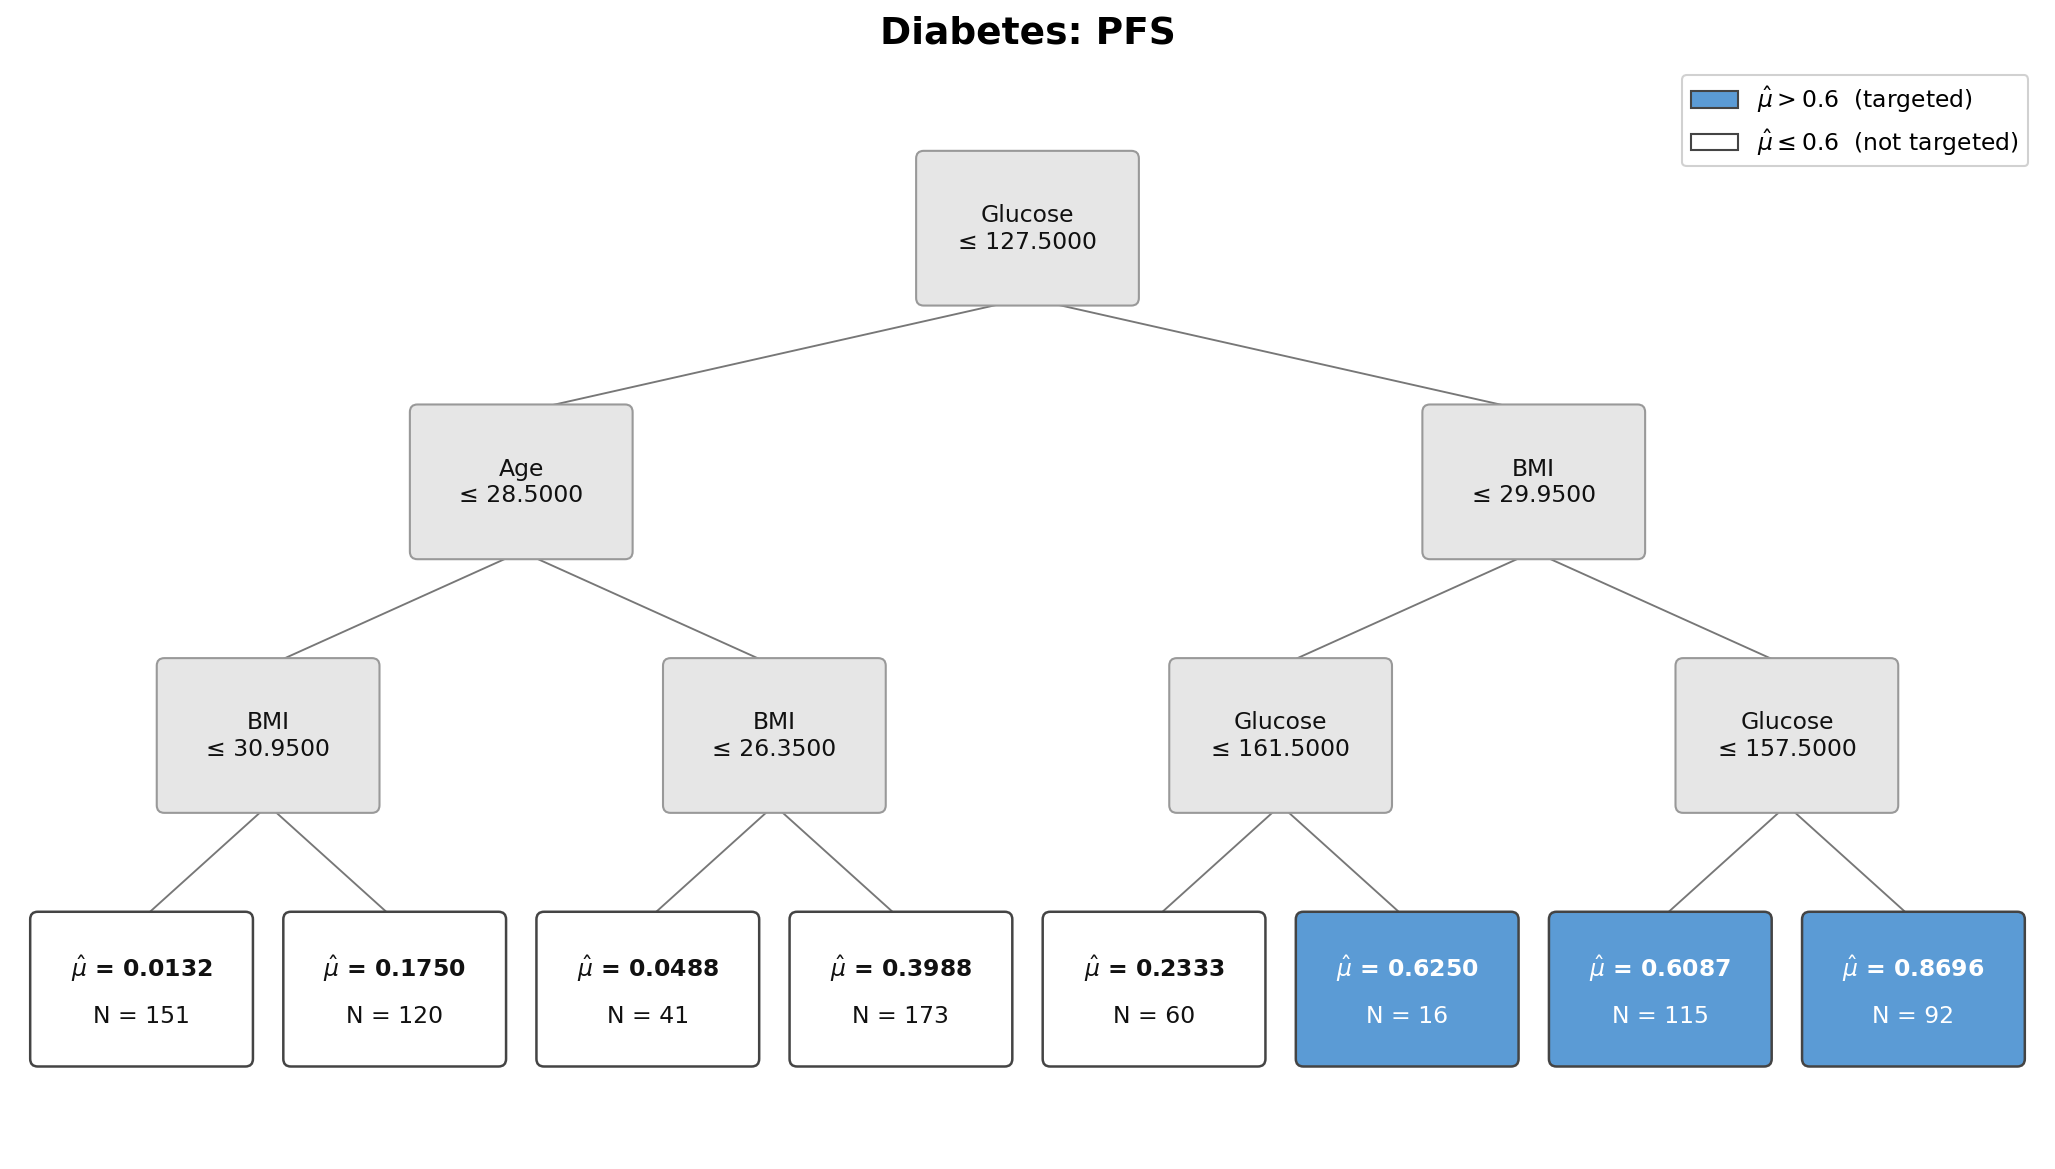
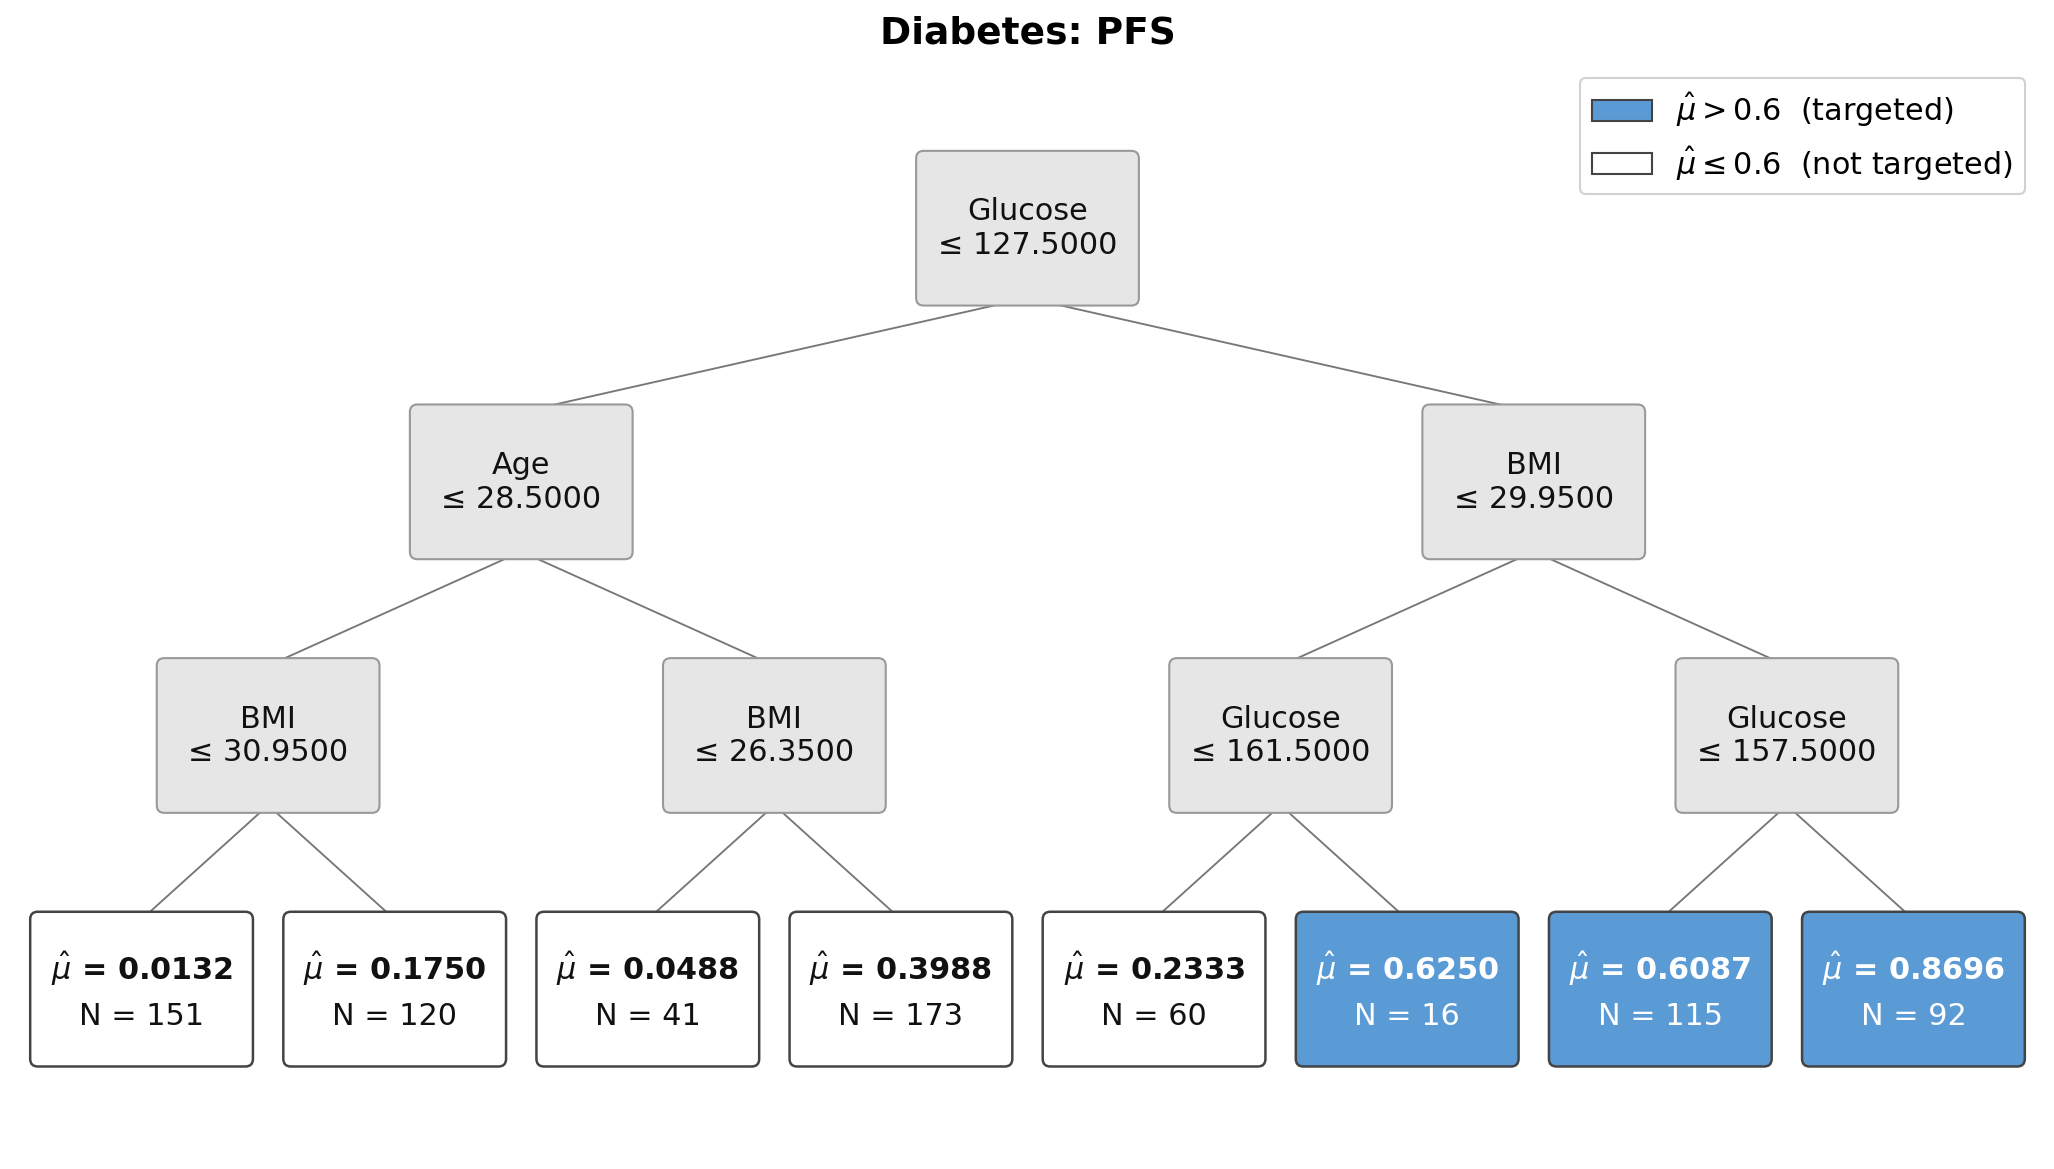
Maximize automatic tree font sizes

diff --git a/src/targetree/tree_vis.py b/src/targetree/tree_vis.py
@@ -140,8 +140,9 @@ def plot_cart_tree(tree, feature_name=None, cut=0.5,
         return f"{fn}{separator}{condition}"
 
     # Use one common font size throughout the tree. In automatic mode, measure
-    # the rendered labels (including math notation) instead of estimating their
-    # width from character counts.
+    # the rendered labels (including math notation) against the boxes after
+    # Matplotlib has laid out the axes. A final fitting pass below rechecks the
+    # result after the title, nodes, and legend have all been drawn.
     split_labels = [
         _split_label(node["feature"], node["threshold"])
         for node in node_info.values() if not isinstance(node, tuple)
@@ -151,14 +152,26 @@ def plot_cart_tree(tree, feature_name=None, cut=0.5,
         for node in node_info.values() if isinstance(node, tuple)
     ]
 
-    if font_size is not None:
-        if isinstance(font_size, bool) or not isinstance(font_size, (int, float)):
-            raise TypeError("font_size must be a positive number or None")
-        if font_size <= 0:
-            raise ValueError("font_size must be positive")
-        resolved_font_size = float(font_size)
-    else:
-        fig.canvas.draw()
+    title_artist = None
+    if title:
+        provisional_title_size = (
+            14.0 if title_font_size is None else float(title_font_size)
+        )
+        title_artist = ax.set_title(
+            title,
+            fontsize=provisional_title_size,
+            fontweight='bold',
+            pad=10,
+        )
+
+    # tight_layout materially changes the width of each node in display
+    # pixels. It must run before measuring labels, otherwise automatic sizing
+    # is unnecessarily conservative on wide figures.
+    fig.tight_layout()
+    fig.canvas.draw()
+
+    def _largest_fitting_font():
+        """Return the largest quarter-point font that fits every node."""
         renderer = fig.canvas.get_renderer()
         origin = ax.transData.transform((0, 0))
         corner = ax.transData.transform((node_w, node_h))
@@ -166,42 +179,81 @@ def plot_cart_tree(tree, feature_name=None, cut=0.5,
         box_height_px = abs(corner[1] - origin[1])
 
         def _fits(candidate):
-            measurements = [(label, "normal", 0.82)
-                            for label in split_labels]
-            for mean_label, count_label in leaf_labels:
-                measurements.append((mean_label, "bold", 0.38))
-                measurements.append((count_label, "normal", 0.38))
+            # Reserve a small amount of inner padding so glyphs and accents do
+            # not touch the rounded box frame in vector or raster output.
+            max_width = box_width_px * 0.90
+            max_height = box_height_px * 0.86
 
-            for label, weight, height_fraction in measurements:
-                probe = ax.text(0, 0, label, fontsize=candidate,
-                                fontweight=weight, alpha=0)
+            for label in split_labels:
+                probe = ax.text(
+                    0, 0, label,
+                    ha='center', va='center',
+                    fontsize=candidate, alpha=0,
+                )
                 bounds = probe.get_window_extent(renderer=renderer)
                 probe.remove()
-                if (bounds.width > box_width_px * 0.88 or
-                        bounds.height > box_height_px * height_fraction):
+                if bounds.width > max_width or bounds.height > max_height:
                     return False
+
+            for mean_label, count_label in leaf_labels:
+                mean_probe = ax.text(
+                    0, hh * 0.30, mean_label,
+                    ha='center', va='center',
+                    fontsize=candidate, fontweight='bold', alpha=0,
+                )
+                count_probe = ax.text(
+                    0, -hh * 0.38, count_label,
+                    ha='center', va='center',
+                    fontsize=candidate, alpha=0,
+                )
+                mean_bounds = mean_probe.get_window_extent(renderer=renderer)
+                count_bounds = count_probe.get_window_extent(renderer=renderer)
+                mean_probe.remove()
+                count_probe.remove()
+
+                combined_height = (
+                    max(mean_bounds.y1, count_bounds.y1)
+                    - min(mean_bounds.y0, count_bounds.y0)
+                )
+                if (max(mean_bounds.width, count_bounds.width) > max_width or
+                        combined_height > max_height):
+                    return False
+
             return True
 
-        # Search in quarter-point steps. The upper bound prevents a very small
-        # tree from receiving disproportionately large labels.
-        lower, upper = 4.0, 24.0
-        while upper - lower > 0.25:
-            candidate = (lower + upper) / 2
-            if _fits(candidate):
-                lower = candidate
+        # Binary-search quarter-point increments. Fit is monotonic in font
+        # size, so this reaches the same deterministic answer with far fewer
+        # temporary text measurements than a linear scan.
+        best_quarters = 16  # 4 points
+        lower_quarters = 17
+        upper_quarters = 128  # 32 points
+        while lower_quarters <= upper_quarters:
+            midpoint = (lower_quarters + upper_quarters) // 2
+            if _fits(midpoint / 4):
+                best_quarters = midpoint
+                lower_quarters = midpoint + 1
             else:
-                upper = candidate
-        resolved_font_size = round(lower * 4) / 4
+                upper_quarters = midpoint - 1
+        return best_quarters / 4
+
+    if font_size is not None:
+        if isinstance(font_size, bool) or not isinstance(font_size, (int, float)):
+            raise TypeError("font_size must be a positive number or None")
+        if font_size <= 0:
+            raise ValueError("font_size must be positive")
+        resolved_font_size = float(font_size)
+    else:
+        resolved_font_size = _largest_fitting_font()
 
     resolved_title_font_size = (
         max(14.0, resolved_font_size + 2.0)
         if title_font_size is None else float(title_font_size)
     )
-    if title:
-        ax.set_title(title, fontsize=resolved_title_font_size,
-                     fontweight='bold', pad=10)
+    if title_artist is not None:
+        title_artist.set_fontsize(resolved_title_font_size)
 
     # ── 3. Draw edges (plain lines, top of child ↔ bottom of parent) ────────
+    node_text_artists = []
     for nid, node in node_info.items():
         if isinstance(node, tuple):
             continue
@@ -230,15 +282,19 @@ def plot_cart_tree(tree, feature_name=None, cut=0.5,
                 facecolor=fcolor, zorder=2)
             ax.add_patch(box)
 
-            ax.text(x, y + hh * 0.30,
-                    rf"$\hat{{\mu}}$ = {prob:.4f}",
-                    ha='center', va='center',
-                    fontsize=resolved_font_size, fontweight='bold',
-                    color=tc, zorder=3)
-            ax.text(x, y - hh * 0.38,
-                    f"N = {n}",
-                    ha='center', va='center',
-                    fontsize=resolved_font_size, color=tc, zorder=3)
+            node_text_artists.append(ax.text(
+                x, y + hh * 0.30,
+                rf"$\hat{{\mu}}$ = {prob:.4f}",
+                ha='center', va='center',
+                fontsize=resolved_font_size, fontweight='bold',
+                color=tc, zorder=3,
+            ))
+            node_text_artists.append(ax.text(
+                x, y - hh * 0.38,
+                f"N = {n}",
+                ha='center', va='center',
+                fontsize=resolved_font_size, color=tc, zorder=3,
+            ))
 
         else:                                           # ── internal node ──
             label = _split_label(node["feature"], node["threshold"])
@@ -250,9 +306,11 @@ def plot_cart_tree(tree, feature_name=None, cut=0.5,
                 facecolor='#e6e6e6', zorder=2)
             ax.add_patch(box)
 
-            ax.text(x, y, label,
-                    ha='center', va='center',
-                    fontsize=resolved_font_size, color='#111111', zorder=3)
+            node_text_artists.append(ax.text(
+                x, y, label,
+                ha='center', va='center',
+                fontsize=resolved_font_size, color='#111111', zorder=3,
+            ))
 
     # ── 5. Legend ─────────────────────────────────────────────────────────────
     cut_label = f"{cut:g}"
@@ -260,10 +318,55 @@ def plot_cart_tree(tree, feature_name=None, cut=0.5,
                                label=rf'$\hat{{\mu}} > {cut_label}$  (targeted)')
     neg_patch = mpatches.Patch(facecolor=_WHITE, edgecolor='#444444',
                                label=rf'$\hat{{\mu}} \leq {cut_label}$  (not targeted)')
-    ax.legend(handles=[pos_patch, neg_patch],
-              loc='upper right', fontsize=resolved_font_size, framealpha=0.9)
+    legend = ax.legend(handles=[pos_patch, neg_patch],
+                       loc='upper right', fontsize=resolved_font_size,
+                       framealpha=0.9)
 
     fig.tight_layout()
+    fig.canvas.draw()
+
+    def _refit_auto_font(current_font_size):
+        # The title and legend can make a final adjustment to the axes. Refit
+        # and update all artists until the quarter-point result stabilizes.
+        if font_size is not None:
+            return current_font_size
+        for _ in range(3):
+            fitted_font_size = _largest_fitting_font()
+            if fitted_font_size == current_font_size:
+                break
+            current_font_size = fitted_font_size
+            for artist in node_text_artists:
+                artist.set_fontsize(current_font_size)
+            for artist in legend.get_texts():
+                artist.set_fontsize(current_font_size)
+            if title_artist is not None and title_font_size is None:
+                title_artist.set_fontsize(max(14.0, current_font_size + 2.0))
+            fig.tight_layout()
+            fig.canvas.draw()
+        return current_font_size
+
+    resolved_font_size = _refit_auto_font(resolved_font_size)
+
+    # An asymmetric tree can place its root under a wide, large-font legend.
+    # If that happens, move the legend into its own horizontal band below the
+    # axes and refit once more using the resulting final layout.
+    renderer = fig.canvas.get_renderer()
+    legend_bounds = legend.get_window_extent(renderer=renderer)
+    if any(legend_bounds.overlaps(box.get_window_extent(renderer=renderer))
+           for box in ax.patches):
+        legend.remove()
+        legend = ax.legend(
+            handles=[pos_patch, neg_patch],
+            loc='upper center',
+            bbox_to_anchor=(0.5, -0.02),
+            ncol=2,
+            fontsize=resolved_font_size,
+            framealpha=0.9,
+        )
+        fig.tight_layout()
+        fig.canvas.draw()
+        resolved_font_size = _refit_auto_font(resolved_font_size)
+
     if save_path:
         save_path = Path(save_path)
         if not save_path.suffix:

diff --git a/tests/test_tree_vis.py b/tests/test_tree_vis.py
@@ -51,3 +51,91 @@ def test_invalid_title_font_size_raises(simple_tree, title_font_size):
 def test_nonnumeric_title_font_size_raises(simple_tree):
     with pytest.raises(TypeError, match="title_font_size must be a positive number"):
         plot_cart_tree(simple_tree, title_font_size="large")
+
+
+def test_auto_font_uses_final_box_width(tmp_path):
+    tree = {
+        "feature": 0,
+        "threshold": 127.5,
+        "left": {
+            "feature": 1,
+            "threshold": 28.5,
+            "left": {
+                "feature": 2,
+                "threshold": 22.25,
+                "left": (0.0000, 35),
+                "right": (0.0975, 236),
+            },
+            "right": {
+                "feature": 2,
+                "threshold": 28.25,
+                "left": (0.2222, 63),
+                "right": (0.3775, 151),
+            },
+        },
+        "right": {
+            "feature": 2,
+            "threshold": 29.95,
+            "left": {
+                "feature": 0,
+                "threshold": 161.5,
+                "left": (0.2333, 60),
+                "right": (0.6250, 16),
+            },
+            "right": {
+                "feature": 0,
+                "threshold": 143.5,
+                "left": (0.6176, 68),
+                "right": (0.7770, 139),
+            },
+        },
+    }
+    figure, axes = plot_cart_tree(
+        tree,
+        feature_name=["Glucose", "Age", "BMI"],
+        cut=0.60,
+        title="Diabetes: MDFS",
+        split_rule_lines=2,
+        save_path=tmp_path / "auto-font.pdf",
+    )
+
+    node_font_sizes = {text.get_fontsize() for text in axes.texts}
+    assert len(node_font_sizes) == 1
+    assert node_font_sizes.pop() >= 14.5
+    plt.close(figure)
+
+
+def test_wide_legend_does_not_overlap_asymmetric_tree(tmp_path):
+    tree = {
+        "feature": 0,
+        "threshold": 85.85,
+        "left": (0.4427, 51),
+        "right": {
+            "feature": 1,
+            "threshold": 26.0,
+            "left": {
+                "feature": 2,
+                "threshold": 769.35,
+                "left": (0.2494, 374),
+                "right": (0.3739, 42),
+            },
+            "right": (0.4183, 50),
+        },
+    }
+    figure, axes = plot_cart_tree(
+        tree,
+        feature_name=["FFMC", "temp", "DC"],
+        cut=1 / 3,
+        title="Forest fires: KD-MDFS",
+        split_rule_lines=2,
+        save_path=tmp_path / "no-overlap.pdf",
+    )
+
+    figure.canvas.draw()
+    renderer = figure.canvas.get_renderer()
+    legend_bounds = axes.get_legend().get_window_extent(renderer=renderer)
+    assert not any(
+        legend_bounds.overlaps(box.get_window_extent(renderer=renderer))
+        for box in axes.patches
+    )
+    plt.close(figure)

diff --git a/README.md b/README.md
@@ -342,8 +342,9 @@ When `save_path` is omitted, `plot_cart_tree()` displays the diagram. When it
 is supplied, the function saves the diagram instead. PNG, PDF, and SVG output
 are supported; a path without an extension defaults to PDF.
 
-`font_size=None` automatically chooses the largest uniform node and legend
-font that fits every box. Supply a positive number to override it. Use
+`font_size=None` measures the final figure layout and automatically chooses
+the largest uniform node and legend font that fits every box with a small
+inner margin. Supply a positive number to override it. Use
 `split_rule_lines=1` for a one-line rule such as `Glucose ≤ 127.5`, or
 `split_rule_lines=2` to place the feature and condition on separate lines.
 Set `title_font_size` independently; its default is slightly larger than the
